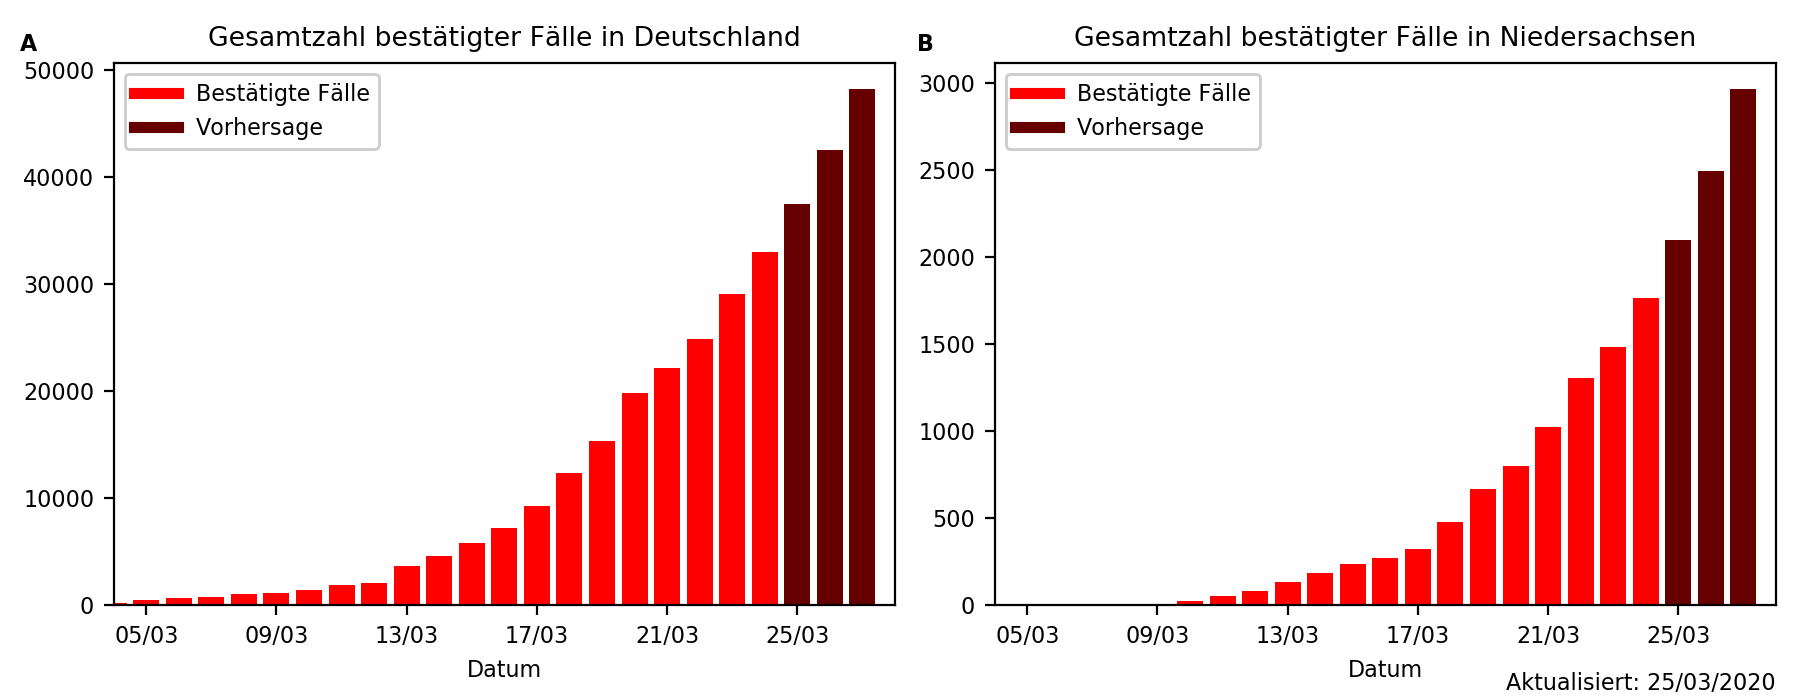
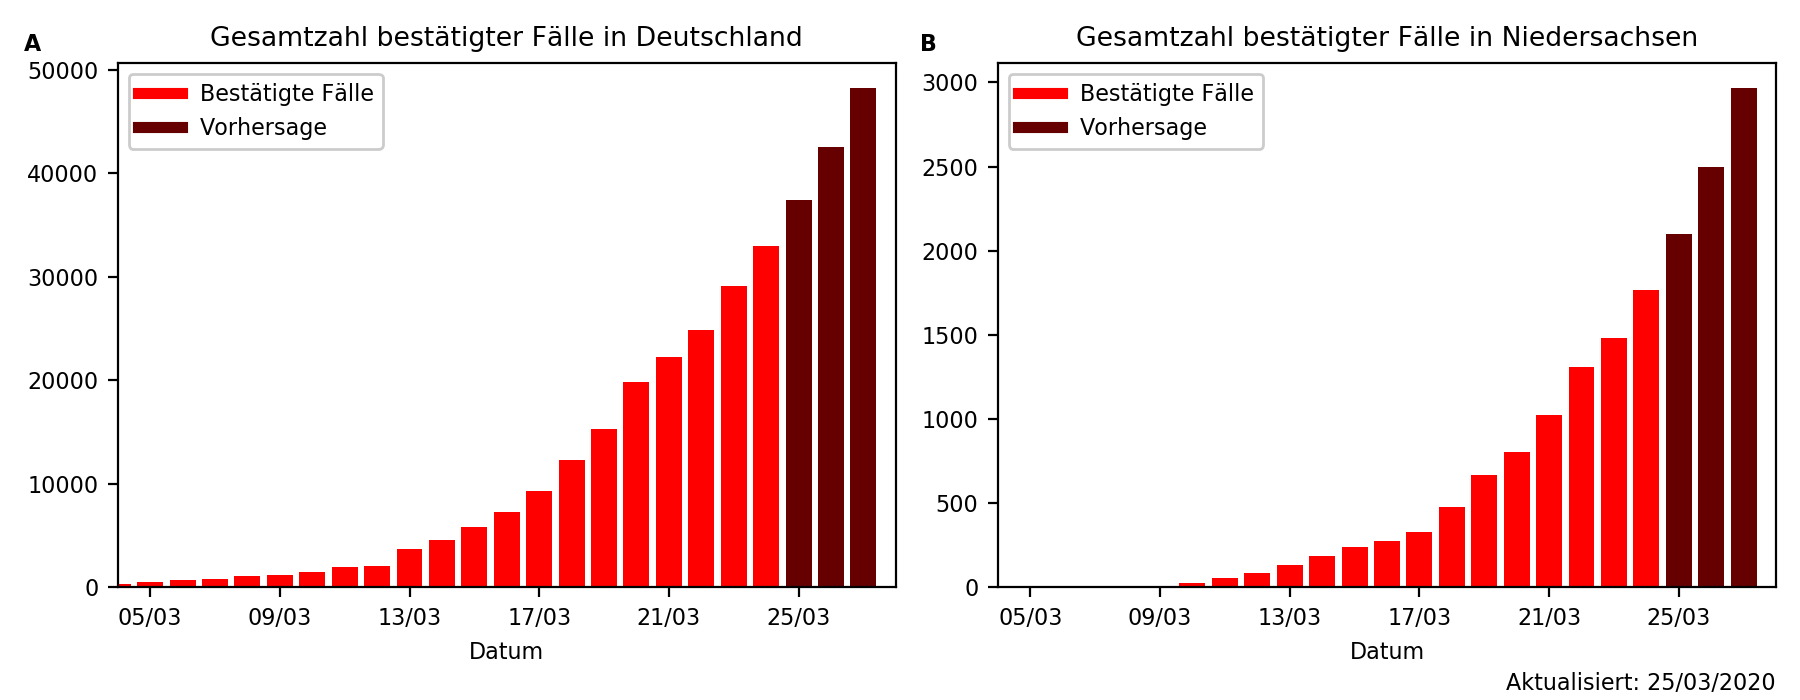
Adds savefig flags

diff --git a/coronavirus.py b/coronavirus.py
@@ -480,8 +480,7 @@ def update_countries(days_pred = 3, m_days = 3):
 	#Restores backend
 	matplotlib.use(old_backend)
 
-def update_local(lang='all'):
-
+def update_local(lang='all', savefig=True):
 
 	#folder location
 	folder_current = 'plots/'
@@ -532,10 +531,13 @@ def update_local(lang='all'):
 	ax_germany.annotate('A', xy=(-0.12,0.9), xycoords=('axes fraction','figure fraction'), xytext=(0,7), textcoords='offset points', ha='left', weight='bold')
 	ax_lowersaxony.annotate('B', xy=(-0.10,0.9), xycoords=('axes fraction','figure fraction'), xytext=(0,7), textcoords='offset points', ha='left', weight='bold')
 
+	plt.tight_layout()
+
 	#Saves both current and dated versions
-	plt.savefig(folder_current + str_save + '.png', dpi=200)
-	plt.savefig(folder_daily + datetime.now().strftime("%Y_%m_%d_") + str_save + '.png', dpi = 200)
-	plt.close('all')
+	if savefig:
+		plt.savefig(folder_current + str_save + '.png', dpi=200)
+		plt.savefig(folder_daily + datetime.now().strftime("%Y_%m_%d_") + str_save + '.png', dpi = 200)
+		plt.close('all')
 
 	#Plots prediction with m
 	fig = plt.figure(figsize=(9,3.5))
@@ -552,9 +554,12 @@ def update_local(lang='all'):
 	ax_lowersaxony.annotate(str_ann, xy=(1,-0.01), xycoords=('axes fraction','figure fraction'), xytext=(0,6), textcoords='offset points', ha='right')
 	ax_germany.annotate('A', xy=(-0.12,0.9), xycoords=('axes fraction','figure fraction'), xytext=(0,7), textcoords='offset points', ha='left', weight='bold')
 	ax_lowersaxony.annotate('B', xy=(-0.10,0.9), xycoords=('axes fraction','figure fraction'), xytext=(0,7), textcoords='offset points', ha='left', weight='bold')
+	
+	plt.tight_layout()
 
-	plt.savefig(folder_current + str_save_m, dpi=200)
-	plt.close('all')
+	if savefig:
+		plt.savefig(folder_current + str_save_m, dpi=200)
+		plt.close('all')
 
 	#Plots comparison between countries_list
 	countries_list = ['Germany', 'Italy', 'Korea, South']
@@ -596,15 +601,16 @@ def update_local(lang='all'):
 	ax_cases.set_ylabel('')
 	ax_deaths.set_ylabel('')
 
-	ax_deaths.annotate(str_ann, xy=(1,-0.01), xycoords=('axes fraction','figure fraction'), xytext=(0,6), textcoords='offset points', ha='right')
+	ax_deaths.annotate(str_ann, xy=(1,-0.02), xycoords=('axes fraction','figure fraction'), xytext=(0,6), textcoords='offset points', ha='right')
 	ax_cases.annotate('A', xy=(-0.19,0.9), xycoords=('axes fraction','figure fraction'), xytext=(0,7), textcoords='offset points', ha='left', weight='bold')
 	ax_deaths.annotate('B', xy=(-0.17,0.9), xycoords=('axes fraction','figure fraction'), xytext=(0,7), textcoords='offset points', ha='left', weight='bold')
 
 	plt.tight_layout()
-	plt.savefig(folder_current + str_save + '.png', dpi=200)
-	plt.savefig(folder_daily + datetime.now().strftime("%Y_%m_%d_") + str_save + '.png', dpi = 200)
 
-	plt.close('all')
+	if savefig:
+		plt.savefig(folder_current + str_save + '.png', dpi=200)
+		plt.savefig(folder_daily + datetime.now().strftime("%Y_%m_%d_") + str_save + '.png', dpi = 200)
+		plt.close('all')
 
 def download_state(file='data/deutschland_bundeslaendern.csv'):
 
